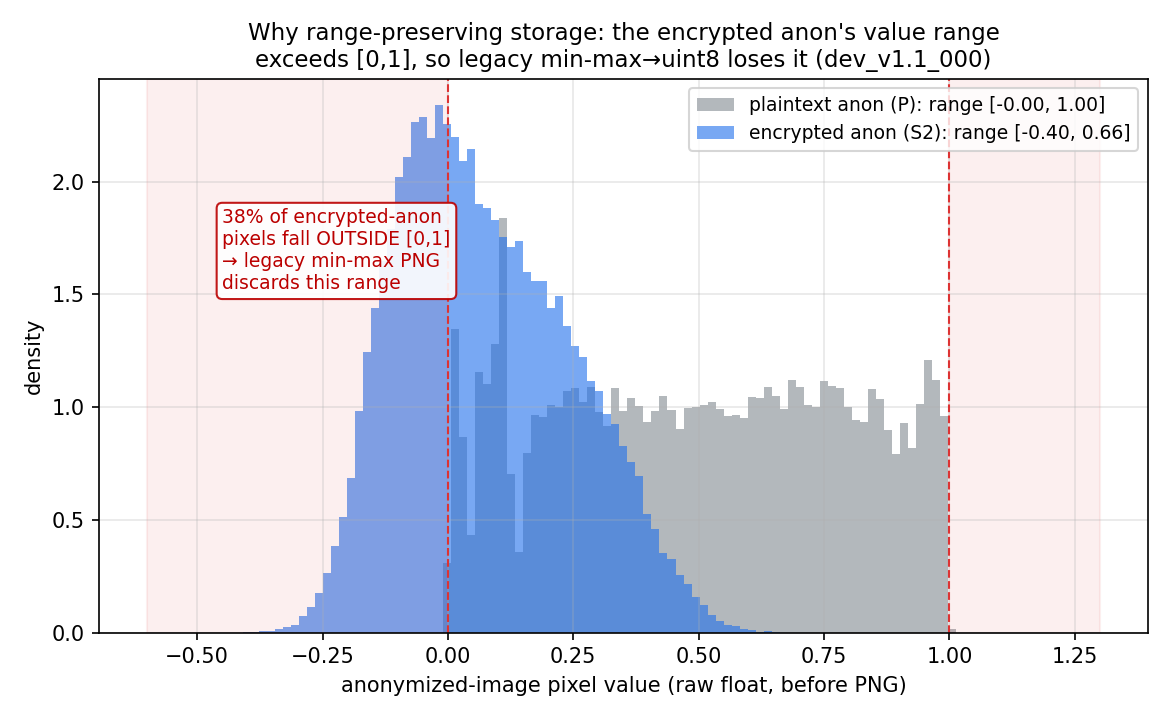
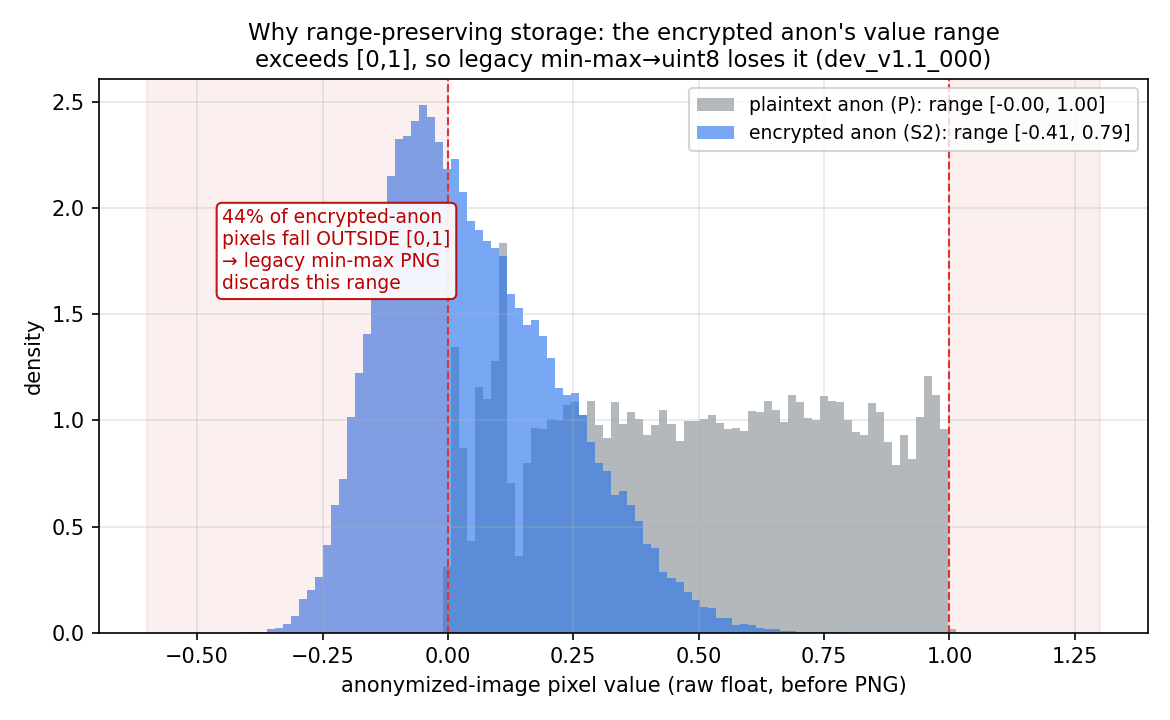
docs: [P2] regenerate figures for DHD deployment
- fig_s2_container: Q box now D.H.D (R=1, P off), D_post H/sqrt(d) D_pre + inverse.
- fig_fidelity_sidebyside, fig_anon_value_range: regenerated from DHD panel
  (dev_v1.1_000; S2fn recon 47.2 dB, anon 44% outside [0,1]).
H-strip comparison will be shown as a table in the outline (bare-HD vs D.H.D is
a design justification, not a predecessor-vs-ours attack lane).

Claude-Session: https://claude.ai/code/session_01RJxQmLWtHrjySjzoGJDSyE

diff --git a/scripts/plot_presentation_figures.py b/scripts/plot_presentation_figures.py
@@ -184,7 +184,7 @@ def fig_s2_container() -> None:
     fwd = [
         (0.1, "latent\n$z$"),
         (2.1, "fix norm\n$u=\\frac{C}{\\|z\\|}z$"),
-        (4.4, "$Q$ : $R$ rounds\n$D_{pre}\\,\\frac{H}{\\sqrt{d}}\\,P\\,D_{post}$"),
+        (4.4, "$Q$ = D$\\cdot$H$\\cdot$D  (R=1,P off)\n$D_{post}\\,\\frac{H}{\\sqrt{d}}\\,D_{pre}$"),
         (7.1, "protected\n$y=Qu$"),
     ]
     for i, (x, t) in enumerate(fwd):
@@ -229,7 +229,7 @@ def fig_s2_container() -> None:
     inv = [
         (0.1, "verify HMAC\n(anti-tamper T4)"),
         (2.0, "open AEAD\n$s$, lo/hi"),
-        (3.9, "$Q^{-1}$: reversed\n$Q_0^{-1}{\\cdots}Q_{R-1}^{-1}$"),
+        (3.9, "$Q^{-1}$\n$D_{pre}\\frac{H}{\\sqrt{d}}D_{post}$"),
         (6.3, "un-fix norm\n$z=\\frac{s}{C}u$"),
     ]
     for i, (x, t) in enumerate(inv):
